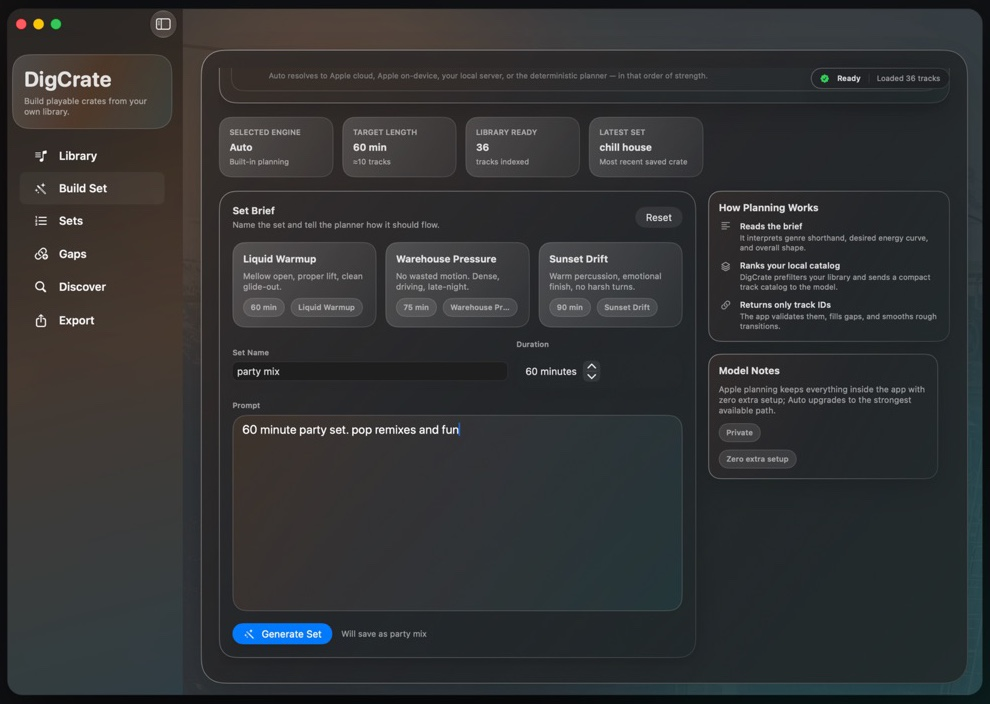
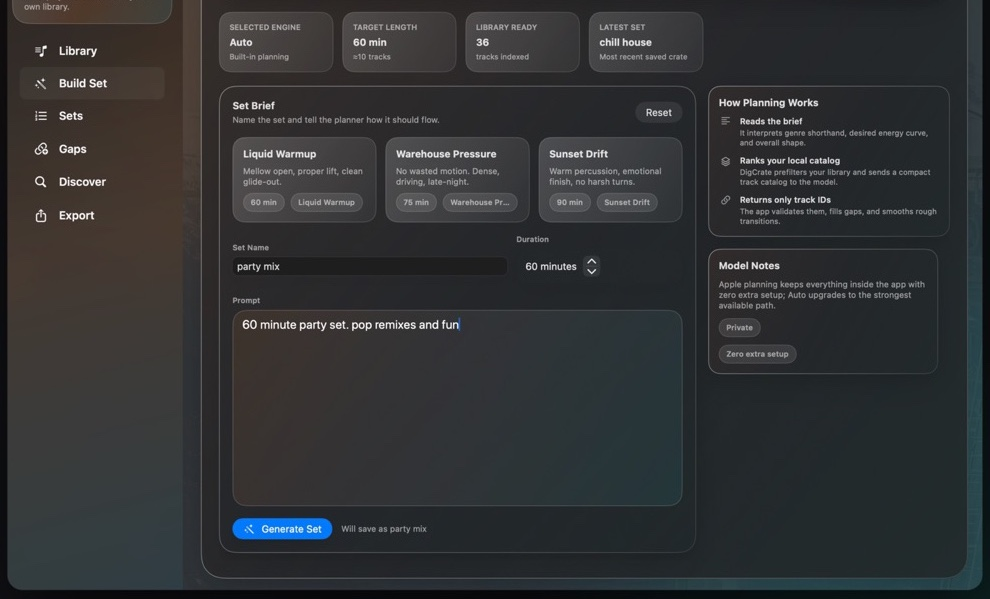
website: crop the Build Set screenshot below the line that names Apple cloud planning
The current release does not include Apple Cloud planning (the page and the
privacy policy say so), and the screenshot's status line named it.

diff --git a/website/index.html b/website/index.html
@@ -76,7 +76,7 @@
         <p>Describe the set in plain English, such as “60-minute liquid roller, mellow start, peak around minute 40,” and the planner picks and orders tracks from your library for flow.</p>
         <p>Every handoff is scored on the harmonic wheel, with a plain-language note on why it works or why it clashes. Listen through the proposed transitions, and reorder tracks or fill a gap before you export. Harmonic scores are a planning aid; your ears make the final decision.</p>
         <figure class="shot shot-wide">
-          <img src="/images/build-set-window.jpg" width="990" height="704" alt="DigCrate’s Build Set screen, with a set name, a 60-minute duration, and a prompt reading “60 minute party set. pop remixes and fun”" loading="lazy" />
+          <img src="/images/build-set-window.jpg" width="990" height="599" alt="DigCrate’s Build Set screen, with a set name, a 60-minute duration, and a prompt reading “60 minute party set. pop remixes and fun”" loading="lazy" />
           <figcaption>Build a set from your library. Screenshot from the published Mac app.</figcaption>
         </figure>
       </div>
